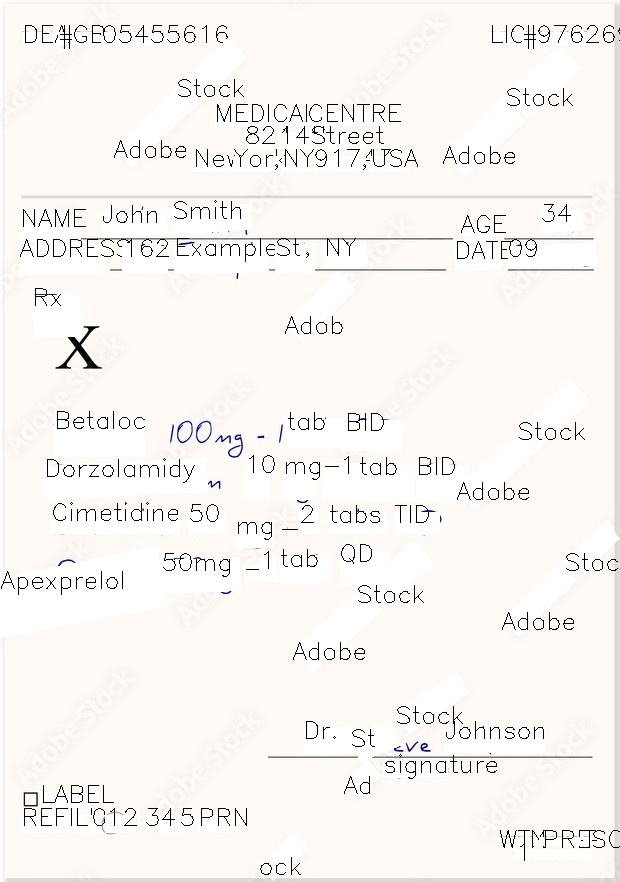
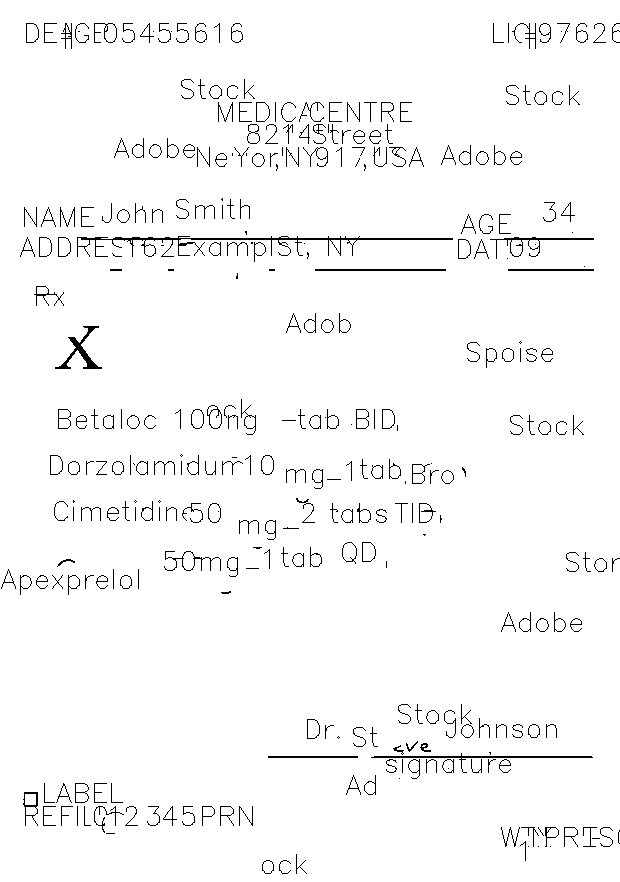
second commit

diff --git a/templates/index.html b/templates/index.html
@@ -3,7 +3,7 @@
 <head>
     <meta charset="UTF-8">
     <meta name="viewport" content="width=device-width, initial-scale=1.0">
-    <title>Image Processing</title>
+    <title>Digitization of Medical Records using OCR</title>
     <style>
         body{
             text-align: center;
@@ -17,7 +17,7 @@
             height: 50px;
             background-image: url("{{ url_for('static', filename='load.svg') }}");
             border-radius: 50%;
-            animation: spin 1s linear infinite;
+            animation: spin 3s linear infinite;
         }
 
         @keyframes spin {
@@ -25,13 +25,13 @@
             100% { transform: rotate(360deg); }
         }
         h1{
-            font-size: 3.5em;
+            font-size: 3em;
             font-weight: bold;
             color:#000;
         }
         .container{
             margin-top: 50px;
-            background-color: rgba(255, 255, 255, 0.3); /* Semi-transparent white background */
+            background-color: rgba(255, 255, 255, 0.2); /* Semi-transparent white background */
             border-radius: 30px; /* Rounded corners */
             padding: 50px; /* Add some padding for content */
             box-shadow: 0 4px 6px rgba(0, 0, 0, 0.1); /* Soft shadow effect */
@@ -40,7 +40,7 @@
 </head>
 <body>
     <div class="container">
-    <h1>Digitization of Medical Records using OCR with Deep Learning</h1>
+    <h1>Digitization of Medical Records using OCR</h1>
     <form id="uploadForm" enctype="multipart/form-data">
         <input type="file" name="imageFile" id="imageFile" accept="image/*" required>
         <label for="fontSizeSlider">Font Size:</label>

diff --git a/main.py b/main.py
@@ -4,11 +4,8 @@ import cv2  # Import OpenCV
 
 app = Flask(__name__, static_folder='static')
 
-
-
 @app.route('/')
 def index():
-    
     return render_template('index.html')
 
 @app.route('/process_image', methods=['POST'])
@@ -24,22 +21,42 @@ def process_image():
     image_path = 'uploaded_image.jpg'
     image_file.save(image_path)
 
+    # Load the uploaded image for image processing
+    img = cv2.imread(image_path)
+
+    # Convert the image to grayscale
+    gray = cv2.cvtColor(img, cv2.COLOR_BGR2GRAY)
+    # Save the binary image
+    cv2.imwrite(image_path, gray)
+    
+    # Update progress to UI - Stage 1
+    print("Image uploaded and pre-processing completed")
+
     # Additional medical terms to include
     additional_medical_terms = [
         'mg', 'ml', '%', '0', '1', '2', '3', '4', '5', '6', '7', '8', '9', 'perception', 'RX', 'tab'
     ]
-
+    
     # Extract font size value from form data
-    font_size = float(request.form.get('fontSize', 0.3))  # Default value 0.3 if not provided in form data
-
+    font_size = float(request.form.get('fontSize', 0.4))  # Default value 0.4 if not provided in form data
+    
     # Detect handwritten text using Google Cloud Vision API
     response = detect_handwritten_text(image_path)
+    
+    # Update progress to UI - Stage 2
+    print("Text detection completed")
 
     # Extract handwritten text and bounding box information from the response
     extracted_text = extract_handwritten_text(response, additional_medical_terms)
-
+    
+    # Update progress to UI - Stage 3
+    print("Text Checking completed")
+    
     # Create the new image with text areas filled with empty pixels and corrected text overlay
     new_image = create_overlay_image(extracted_text, image_path, font_size)
+    
+    # Update progress to UI - Stage 4 (Final)
+    print("Processing completed")
 
     # Save the processed image
     processed_image_path = 'static/processed_image.jpg'

diff --git a/ocr_utils.py b/ocr_utils.py
@@ -16,7 +16,7 @@ def detect_handwritten_text(path):
 
     image = vision.Image(content=content)
     response = client.document_text_detection(image=image)
-
+    
     if response.error.message:
         raise Exception(
             '{}\nFor more info on error messages, check: '
@@ -70,7 +70,13 @@ def extract_handwritten_text(response, additional_terms):
 def create_overlay_image(extracted_text, original_image_path, font_size):
     """Creates a new image with extracted text areas filled with empty pixels using OpenCV."""
     original_image = cv2.imread(original_image_path)
-    new_image = original_image.copy()  # Create a copy of the original image
+    # Convert the image to grayscale
+    gray = cv2.cvtColor(original_image, cv2.COLOR_BGR2GRAY)
+    
+    # Thresholding to convert to binary (black and white)
+    binary = cv2.adaptiveThreshold(gray, 255, cv2.ADAPTIVE_THRESH_MEAN_C, cv2.THRESH_BINARY, 11, 33)
+    
+    new_image = binary.copy()  # Create a copy of the original image
 
     for annotation in extracted_text:
         corrected_text = annotation['corrected_text']  # Get the corrected text for this annotation
